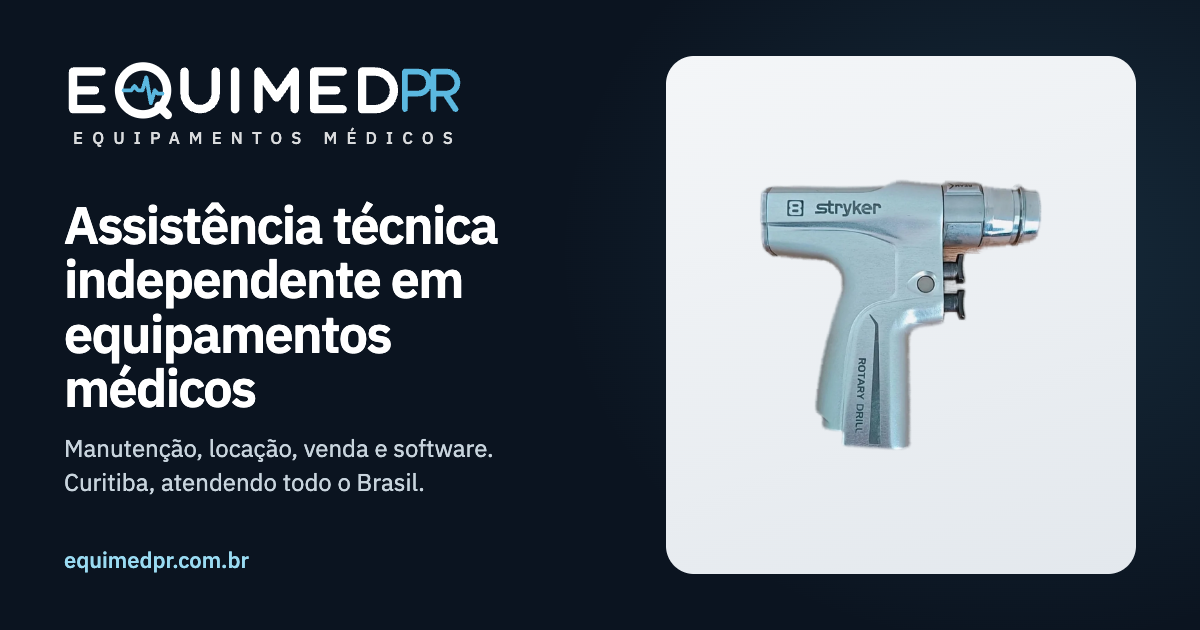
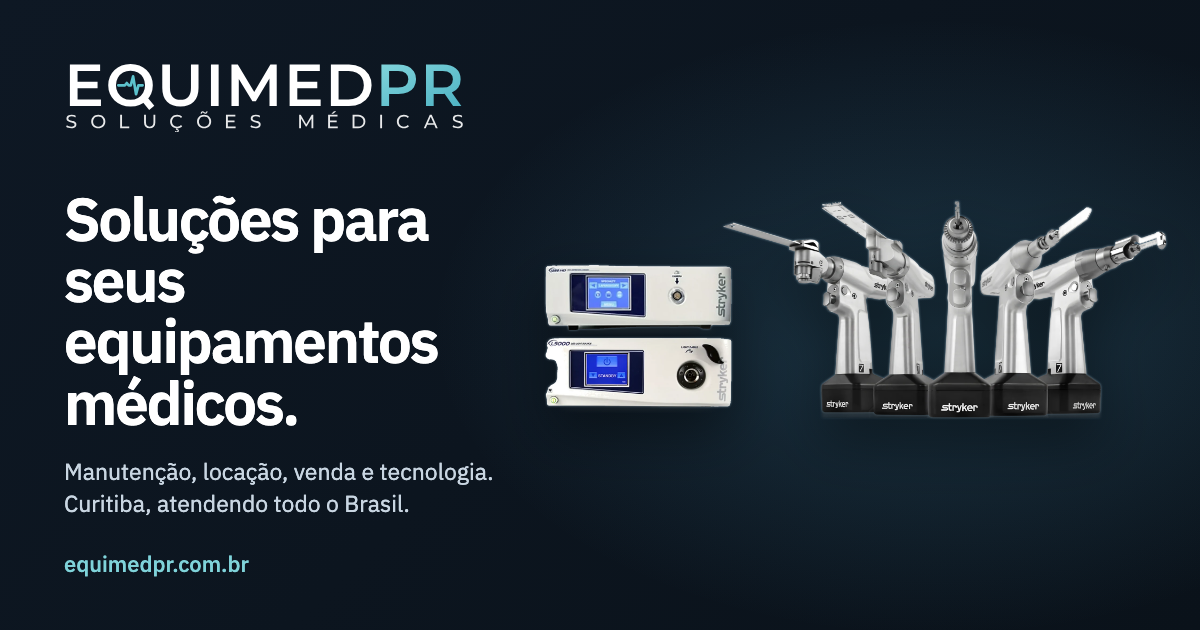
Changes from the conversation with Paulo (02/11: PDF "Layout e feedback do site", WhatsApp texts and audios). Save point before them: tag antes-paulo-2026-11-02
- Brand: logo tagline SOLUÇÕES MÉDICAS (larger, Montserrat Medium); legal name EquimedPR Soluções Médicas Ltda. in footer, JSON-LD, About, README; the name of the unrelated Pinhais company no longer appears anywhere
- Home: "Soluções para seus equipamentos médicos.", CTAs "Falar com nossa equipe" / "Conhecer soluções", the four solutions side by side early in the scroll (2x2 shortcuts on mobile), new "Por que somos Soluções Médicas?" section (also on About), cover with the Stryker camera and LED light source beside the System 7 line-up, whole units; "bancada" kept only for the maintenance process
- Nav: Software becomes Tecnologia; contact form options and hints by need
- Sales asks for equipment, application and configuration; rental asks for date or period and city
- Batteries: Paulo's text on cell recovery and replacement (Stryker, Linvatec, Synthes, Aesculap/B. Braun, Chinese; NiCd, NiMH, Li-ion, LiFePO4)
- SEO: one page per rental search (/locacao/perfurador-stryker/, /locacao/serra-stryker/); preview build is noindex, real-domain build stays index,follow; new Open Graph image
- Analytics: a WhatsApp or phone click is contact_intent, no longer generate_lead (a click does not confirm a contact)

diff --git a/src/styles/main.css b/src/styles/main.css
@@ -458,6 +458,12 @@
   /* Owner 27/10: bigger equipment. On desktop the cover takes the wider column and runs into the right gutter. */
   @media (width >= 64rem) { .hx__grid:has(.is-cutout) { grid-template-columns: minmax(0, .9fr) minmax(0, 1.1fr); gap: 2.5rem; } .hx__photo:has(.is-cutout) { margin-inline-end: -1.5rem; } }
   .is-loaded .hx__photo:has(.is-cutout) { clip-path: inset(-12% -10% -22% -10%); }
+  @media (width < 64rem) { .hx__photo img.is-cutout { transform: none; } }
+  /* Paulo 02/11 (mobile): the four solutions as a 2x2 shortcut grid under the hero buttons */
+  .hx__quick { display: grid; grid-template-columns: repeat(2, minmax(0, 1fr)); gap: .5rem; width: 100%; }
+  .hx__quick a { padding: .8rem 1rem; border: 1px solid rgba(255,255,255,.18); border-radius: 6px; background: rgba(255,255,255,.04); color: #FFFFFF; font-weight: 600; font-size: .9375rem; text-decoration: none; text-align: center; }
+  .hx__quick a:hover { border-color: var(--color-signal); }
+  @media (width >= 56rem) { .hx__quick { display: none; } }
   @keyframes beat { 0%, 100% { box-shadow: 0 0 0 4px rgba(91,184,224,.18); } 50% { box-shadow: 0 0 0 7px rgba(91,184,224,.1); } }
 
   /* Facts */
@@ -493,6 +499,19 @@
   .scard__points .icon { color: var(--color-signal); }
   .scard__go { justify-self: start; display: inline-flex; align-items: center; gap: .5rem; margin-top: .4rem; padding: .7rem 1.1rem; border-radius: 6px; background: #FFFFFF; color: var(--color-navy); font-weight: 600; font-size: .9375rem; transition: background-color .2s, gap .2s; }
   .scard:hover .scard__go { gap: .8rem; }
+  .scard__kicker { margin: 0; font-size: .8125rem; font-weight: 600; letter-spacing: .08em; text-transform: uppercase; color: var(--color-signal); }
+  /* Paulo 02/11: the four solutions side by side early in the scroll on wide screens */
+  @media (width >= 72rem) { .scards { grid-template-columns: repeat(4, minmax(0, 1fr)); gap: 1rem; } .scard { min-height: 33rem; } .scard__body { padding: 1.5rem; gap: .7rem; } .scard__name { font-size: 1.85rem; } .scard__text { font-size: .9375rem; } }
+
+  /* Why "Soluções Médicas" */
+  .why-sm__grid { display: grid; gap: 1.5rem 4rem; grid-template-columns: minmax(0, 1fr); }
+  @media (width >= 56rem) { .why-sm__grid { grid-template-columns: minmax(0, .85fr) minmax(0, 1.15fr); align-items: start; } }
+  .why-sm .sx-head { display: grid; gap: .8rem; margin: 0; }
+  .why-sm__kicker { margin: 0; font-size: .8125rem; font-weight: 600; letter-spacing: .08em; text-transform: uppercase; color: var(--color-petrol); }
+  .why-sm__text { display: grid; gap: 1rem; max-width: 62ch; color: var(--color-ink-2); }
+  .why-sm__text p { margin: 0; }
+  .why-sm__lead { font-size: clamp(1.2rem, 1.05rem + .6vw, 1.5rem); line-height: 1.35; font-weight: 600; letter-spacing: -.015em; color: var(--color-ink); }
+  .why-sm__close { font-weight: 600; color: var(--color-ink); }
 
   /* Parallax band */
   .band { position: relative; isolation: isolate; overflow: hidden; min-height: clamp(26rem, 75vh, 42rem); display: grid; align-items: end; color: #FFFFFF; background: var(--color-navy); }

diff --git a/src/scripts/main.js b/src/scripts/main.js
@@ -59,7 +59,9 @@ document.querySelector('[data-consent="reset"]')?.addEventListener('click', () =
   else location.reload();
 });
 
-/* 2. Lead tracking: WhatsApp, phone and e-mail clicks, wherever they are. */
+/* 2. Contact intent: WhatsApp, phone and e-mail clicks, wherever they are. A click is not a lead (Paulo 02/11): it only
+   opens the app. Received contacts, qualified quotes and sales are counted outside the site, so generate_lead is not
+   fired here; contact_intent is the click-side event to compare against them. */
 document.addEventListener('click', (e) => {
   const a = e.target.closest('a[href]');
   if (!a) return;
@@ -68,7 +70,7 @@ document.addEventListener('click', (e) => {
   if (!name) return;
   const params = { place: a.dataset.place ?? 'inline', page_path: location.pathname };
   track(name, params);
-  if (name === 'whatsapp_click' || name === 'phone_click') track('generate_lead', { method: name.replace('_click', ''), ...params });
+  if (name === 'whatsapp_click' || name === 'phone_click') track('contact_intent', { method: name.replace('_click', ''), ...params });
 });
 
 /* 3. Contact form: compose a WhatsApp or e-mail message from the fields. No data leaves the browser. */
@@ -99,7 +101,7 @@ if (form) {
     ].filter((l) => l !== false);
     const text = lines.join('\n');
     track('form_submit', { via, subject: f.assunto.value, page_path: location.pathname });
-    track('generate_lead', { method: `form_${via}` });
+    track('contact_intent', { method: `form_${via}` });
 
     if (via === 'email') {
       const subject = `[Site] ${f.assunto.value}${f.equipamento.value.trim() ? ` - ${f.equipamento.value.trim()}` : ''}`;

diff --git a/docs/SEO-MARKETING.md b/docs/SEO-MARKETING.md
@@ -89,8 +89,10 @@ Local: + Curitiba · + Paraná · + Brasil (envio por transportadora).
 ## 6. Mensuração e marketing
 
 - **GA4**: preencha `analytics.ga4MeasurementId` em `content/site.json` (formato `G-XXXXXXX`). Eventos enviados:
-  `whatsapp_click`, `phone_click`, `email_click`, `form_submit` e `generate_lead` (com `place` = hero, header,
-  footer, fab, produto, cta). Marque `generate_lead` como conversão no GA4 para ver a origem dos contatos.
+  `whatsapp_click`, `phone_click`, `email_click`, `form_submit` e `contact_intent` (com `place` = hero, header,
+  footer, fab, produto, cta). Um clique só abre o WhatsApp ou o telefone: não confirma contato recebido. Por isso o
+  site não dispara `generate_lead`. Meça em separado: clique (`contact_intent`), contato recebido, orçamento
+  qualificado e venda (estes três fora do site, por exemplo importando conversões offline no Google Ads).
 - **Meta**: preencha `analytics.metaPixelId`. O pixel dispara `PageView` e os mesmos eventos como `trackCustom`.
   Para campanhas, verifique o domínio no Meta Business e use os eventos acima como conversões personalizadas.
 - **Consentimento**: o aviso só aparece quando há algum ID preenchido; nada é carregado antes do "Aceitar".

diff --git a/docs/PROPOSTA.md b/docs/PROPOSTA.md
@@ -48,7 +48,7 @@ e `/marcas/stryker/`; "assistência em equipamentos ConMed/Linvatec" leva a `/ma
   nomeadas (marca, modelo, família), aviso claro de independência. Sem promessa de posicionamento.
 - Compartilhamento: imagem Open Graph 1200×630 própria, título e descrição por página (WhatsApp, Facebook, Instagram).
 - Mensuração: Google Analytics 4 e Pixel da Meta prontos, ativados ao preencher o ID em `content/site.json`.
-  Eventos: `whatsapp_click`, `phone_click`, `email_click`, `form_submit` e `generate_lead`, com a posição do
+  Eventos: `whatsapp_click`, `phone_click`, `email_click`, `form_submit` e `contact_intent`, com a posição do
   clique (hero, rodapé, produto, CTA). Nada carrega antes do consentimento de cookies (LGPD); política em `/privacidade/`.
 - Validação técnica: sitemap, robots, canonical, 404 real, auditoria automática mensal (ver `docs/SEO-MARKETING.md`).
 - Desempenho e acessibilidade: Lighthouse 100/100/100/100 nas 6 páginas de referência (desktop), fontes

diff --git a/README.md b/README.md
@@ -1,6 +1,6 @@
 # equimedpr.com.br
 
-Site institucional da **EquimedPR** (Equimed Equipamentos Médicos, Curitiba, PR): assistência técnica independente multimarcas. Versão 2 (2026): site estático,
+Site institucional da **EquimedPR** (EquimedPR Soluções Médicas Ltda., Curitiba, PR): assistência técnica independente multimarcas. Versão 2 (2026): site estático,
 HTML e CSS puros, sem frameworks nem dependências de runtime. Substitui o app Django/Heroku de 2018.
 
 - Produção: https://www.equimedpr.com.br (GitHub Pages, publicado pelo workflow `Deploy`)
